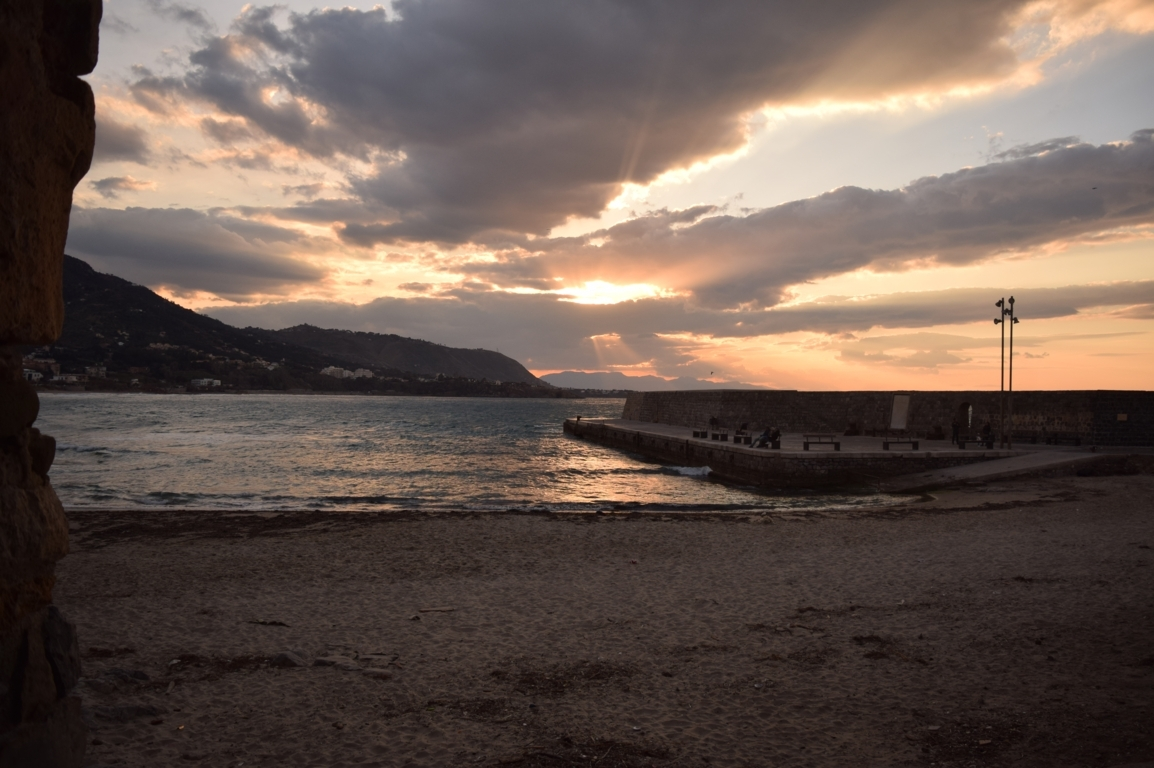
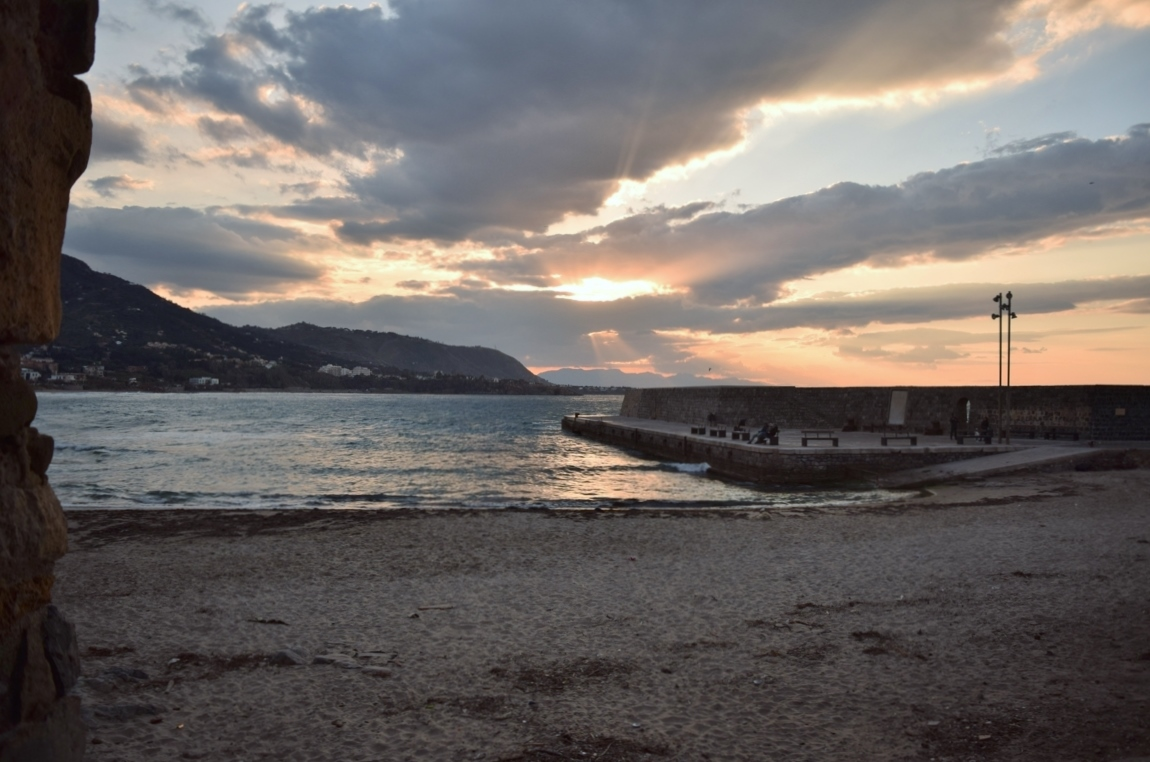
changed landing page

diff --git a/css/style.css b/css/style.css
@@ -71,7 +71,7 @@ h2 {
 }
 
 #landing-img {
-  background: url(../img/landing.jpg) no-repeat top center/cover;
+  background: url(../img/landing-1.jpg) no-repeat -350px top/cover;
   /* background: url(../img/diego1.jpg) no-repeat top center/cover; */
   height: 100vh;
   width: 100%;
